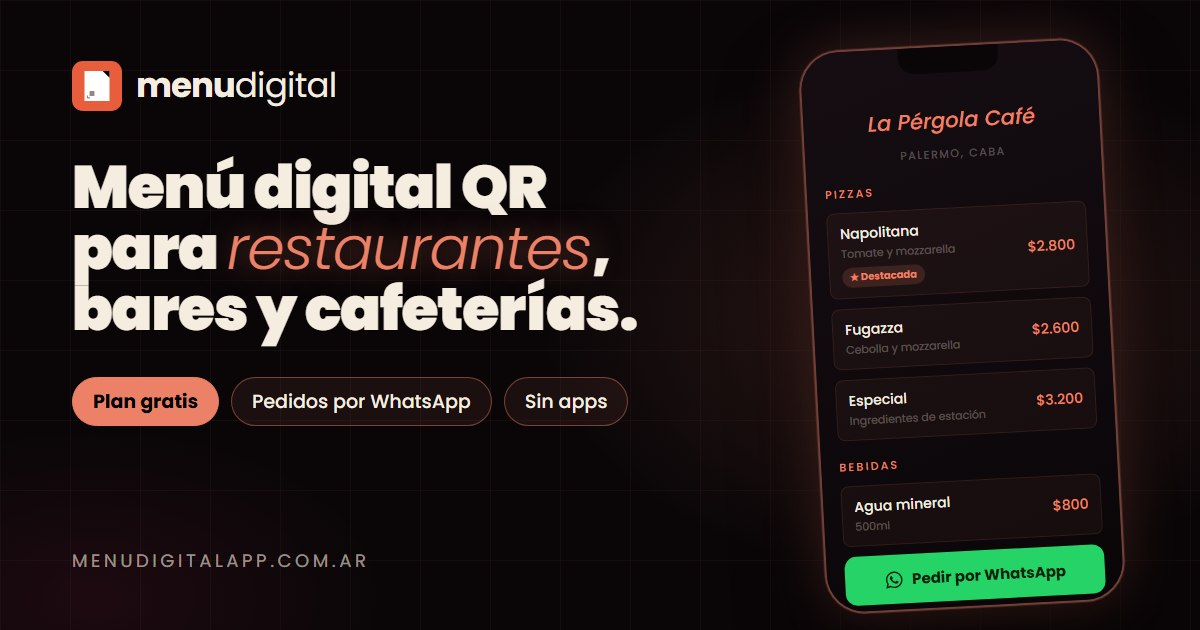
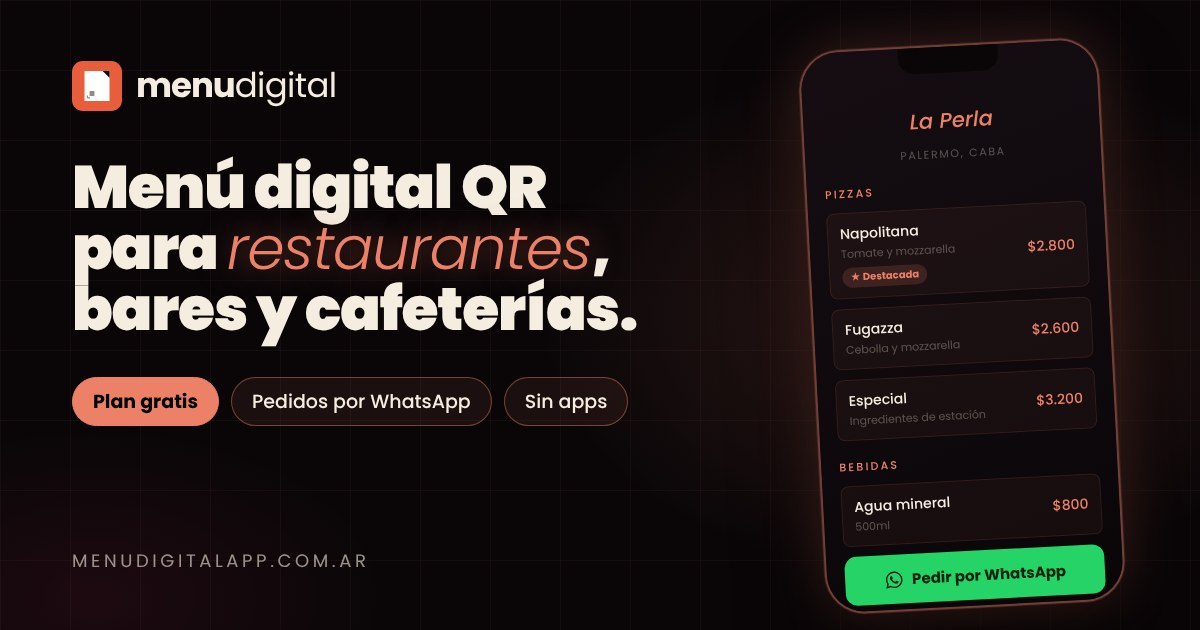
Imagen para compartir: ejemplo "La Perla" en vez de "La Pérgola Café"
Regenerada desde docs/og-image.html (1200x630, JPG calidad 88).

Claude-Session: https://claude.ai/code/session_01AKQ2UgLR25fvEA9mDd8YTf

diff --git a/docs/og-image.html b/docs/og-image.html
@@ -143,7 +143,7 @@
     <div class="notch"></div>
     <div class="screen">
       <div class="bar"></div>
-      <div class="biz">La Pérgola Café</div>
+      <div class="biz">La Perla</div>
       <div class="loc">Palermo, CABA</div>
       <div class="section">Pizzas</div>
       <div class="item"><div><div class="name">Napolitana</div><div class="desc">Tomate y mozzarella</div><span class="badge">★ Destacada</span></div><div class="price">$2.800</div></div>
